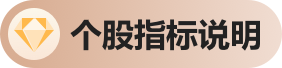
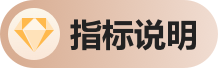
fix: 添加os字段，修改文案以及图标

diff --git a/src/components/m/module-tips3.vue b/src/components/m/module-tips3.vue
@@ -1,7 +1,7 @@
 <template>
   <div class="module-tips">
     <div class="module">
-      <header>策略原理讲解及详细介绍</header>
+      <!-- <header>策略原理讲解及详细介绍</header>
       <p>主力操盘运作流程主要有四个：建仓、洗盘、拉升、出货。但在拉主升浪之前，主力往往会拉上影线试盘，试探对手盘的抛压。如果抛压小就开启主升浪行情，也是我们买入的最好时机。</p>
       <img class="pick" :src="require('@/assets/img/pick1@2x.png')" />
       <p class="em">建仓特征</p>
@@ -13,12 +13,12 @@
       <p class="color-333 block">Level2功能可以分析主力动机。如果是早上快速封板，封板后无成交量，L2功能显示大额资金流入，并且因为行情大跌导致被动开板，这种情况可以考虑当天介入。如果当日回调幅度很大，涨幅跌到3%以下可以考虑当天介入。如果当日收盘涨幅仍然很高，可以考虑只建底仓，或者次日、隔日缩量回踩才介入。</p>
 
       <p class="em">基本面</p>
-      <p class="color-333 block">结合公司的市值、PE、股东数近期增减、增长预期等综合分析，估值过高就要考虑安全边际，股东数增减代表近期主力动作。总之分仓操作才是安全的交易方式。</p>
+      <p class="color-333 block">结合公司的市值、PE、股东数近期增减、增长预期等综合分析，估值过高就要考虑安全边际，股东数增减代表近期主力动作。总之分仓操作才是安全的交易方式。</p> -->
       <img class="pick" :src="require('@/assets/img/pick2@2x.png')" />
 
       <p><span>选出时间：</span><span class="color-666">系统策略实时选出标的精准时间。</span></p>
-      <p><span>最高收益：</span><span class="color-666">标的选出后，曾经最高的涨幅。</span></p>
-      <p><span>实时收益：</span><span class="color-666">标的选出后，最新股价的涨幅。</span></p>
+      <p><span>最高涨幅：</span><span class="color-666">标的选出后，曾经最高的涨幅。</span></p>
+      <p><span>实时涨幅：</span><span class="color-666">标的选出后，最新股价的涨幅。</span></p>
       <p><span>流通市值：</span><span class="color-666">流通市值小的标的一定不要大额交易。</span></p>
       <p><span>昨日交易：</span><span class="color-666">昨日的交易金额，可根据金额判断资金容量。</span></p>
     </div>

diff --git a/src/components/m/module-tips2.vue b/src/components/m/module-tips2.vue
@@ -1,7 +1,7 @@
 <template>
   <div class="module-tips">
     <div class="module">
-      <header>策略原理讲解及详细介绍</header>
+      <!-- <header>策略原理讲解及详细介绍</header>
       <p>通常情况下，资金拉升标的不会连续，基本上是拉升一两天，回调几天后再拉升！这样温和调整可以节省拉升所需资金，逐步抬高参与者持股成本，清洗浮筹。策略算法计算资金回调机会。</p>
       <img class="pick" :src="require('@/assets/img/pick1@2x.png')" />
       <p class="em">热点板块</p>
@@ -13,12 +13,12 @@
       <p class="color-333 block">曾经被市场炒作过标的往往众所周知，所以一旦该标的重启，就会很快被市场关注。大单金额越大单净量越大，资金关注度越高。</p>
 
       <p class="em">基本面</p>
-      <p class="color-333 block">结合公司的市值、PE、股东数近期增减、增长预期等综合分析，市值和交易额太小则基本面较差，估值过高就要考虑安全边际，股东数增减代表近期主力动作。</p>
+      <p class="color-333 block">结合公司的市值、PE、股东数近期增减、增长预期等综合分析，市值和交易额太小则基本面较差，估值过高就要考虑安全边际，股东数增减代表近期主力动作。</p> -->
       <img class="pick" :src="require('@/assets/img/pick2@2x.png')" />
 
       <p><span>选出时间：</span><span class="color-666">系统策略实时选出标的精准时间。</span></p>
-      <p><span>最高收益：</span><span class="color-666">标的选出后，曾经最高的涨幅。</span></p>
-      <p><span>实时收益：</span><span class="color-666">标的选出后，最新股价的涨幅。</span></p>
+      <p><span>最高涨幅：</span><span class="color-666">标的选出后，曾经最高的涨幅。</span></p>
+      <p><span>实时涨幅：</span><span class="color-666">标的选出后，最新股价的涨幅。</span></p>
       <p><span>流通市值：</span><span class="color-666">流通市值小的标的一定不要大额交易。</span></p>
       <p><span>昨日交易：</span><span class="color-666">昨日的交易金额，可根据金额判断资金容量。</span></p>
     </div>

diff --git a/src/components/m/module-tips1.vue b/src/components/m/module-tips1.vue
@@ -1,7 +1,7 @@
 <template>
   <div class="module-tips">
     <div class="module">
-      <header>策略原理讲解及详细介绍</header>
+      <!-- <header>策略原理讲解及详细介绍</header>
       <p>一只标的不会无缘无故拉升，底部启动往往酝酿一波主升浪行情。但一味地冒进很容易适得其反！如果在缩量回调的时候低吸介入，可做到进可攻退可守。</p>
       <img class="pick" :src="require('@/assets/img/pick1@2x.png')" />
       <p class="em">热点板块</p>
@@ -13,12 +13,12 @@
       <p class="color-333 block">主要计算大单金额和大单净量数据，大单净量代表大单金额占流通市值的百分比，强势涨停当天大单净量越大代表主力越坚决，控盘度越高。</p>
 
       <p class="em">基本面</p>
-      <p class="color-333 block">结合公司的市值、PE、股东数近期增减、增长预期等综合分析，市值和交易额太小则基本面较差，估值过高就要考虑安全边际，股东数增减代表近期主力动作。</p>
+      <p class="color-333 block">结合公司的市值、PE、股东数近期增减、增长预期等综合分析，市值和交易额太小则基本面较差，估值过高就要考虑安全边际，股东数增减代表近期主力动作。</p> -->
       <img class="pick" :src="require('@/assets/img/pick2@2x.png')" />
 
       <p><span>选出时间：</span><span class="color-666">系统策略实时选出标的精准时间。</span></p>
-      <p><span>最高收益：</span><span class="color-666">标的选出后，曾经最高的涨幅。</span></p>
-      <p><span>实时收益：</span><span class="color-666">标的选出后，最新股价的涨幅。</span></p>
+      <p><span>最高涨幅：</span><span class="color-666">标的选出后，曾经最高的涨幅。</span></p>
+      <p><span>实时涨幅：</span><span class="color-666">标的选出后，最新股价的涨幅。</span></p>
       <p><span>流通市值：</span><span class="color-666">流通市值小的标的一定不要大额交易。</span></p>
       <p><span>昨日交易：</span><span class="color-666">昨日的交易金额，可根据金额判断资金容量。</span></p>
     </div>

diff --git a/src/components/m/module-tips4.vue b/src/components/m/module-tips4.vue
@@ -1,7 +1,7 @@
 <template>
   <div class="module-tips">
     <div class="module">
-      <header>策略原理讲解及详细介绍</header>
+      <!-- <header>策略原理讲解及详细介绍</header>
       <p>在市场恐慌情绪泛滥的情况下，众多交易者会不计成本割掉手中的筹码，如果此时主力空翻多大单接盘，就是一种情绪反转的征兆。后续市场冷静后，该标的往往会提前表现，走出一波行情。</p>
       <img class="pick" :src="require('@/assets/img/pick1@2x.png')" />
       <p class="em">大跌后反转</p>
@@ -13,12 +13,12 @@
       <p class="color-333 block">标的股价活性强的，最好是白马蓝筹股。屏蔽小盘股可以规避主力通过对倒制造大资金流入的假象。</p>
 
       <p class="em">基本面</p>
-      <p class="color-333 block">结合公司的市值、PE、股东数近期增减、增长预期等综合分析，市值和交易额太小则基本面较差，估值过高就要考虑安全边际，股东数增减代表近期主力动作。</p>
+      <p class="color-333 block">结合公司的市值、PE、股东数近期增减、增长预期等综合分析，市值和交易额太小则基本面较差，估值过高就要考虑安全边际，股东数增减代表近期主力动作。</p> -->
       <img class="pick" :src="require('@/assets/img/pick2@2x.png')" />
 
       <p><span>选出时间：</span><span class="color-666">系统策略实时选出标的精准时间。</span></p>
-      <p><span>最高收益：</span><span class="color-666">标的选出后，曾经最高的涨幅。</span></p>
-      <p><span>实时收益：</span><span class="color-666">标的选出后，最新股价的涨幅。</span></p>
+      <p><span>最高涨幅：</span><span class="color-666">标的选出后，曾经最高的涨幅。</span></p>
+      <p><span>实时涨幅：</span><span class="color-666">标的选出后，最新股价的涨幅。</span></p>
       <p><span>流通市值：</span><span class="color-666">流通市值小的标的一定不要大额交易。</span></p>
       <p><span>昨日交易：</span><span class="color-666">昨日的交易金额，可根据金额判断资金容量。</span></p>
     </div>

diff --git a/src/components/module-tips4.vue b/src/components/module-tips4.vue
@@ -1,7 +1,7 @@
 <template>
   <div class="module-tips">
     <div class="module">
-      <header>策略原理讲解及详细介绍</header>
+      <!-- <header>策略原理讲解及详细介绍</header>
       <p>在市场恐慌情绪泛滥的情况下，众多交易者会不计成本割掉手中的筹码，如果此时主力空翻多大单接盘，就是一种情绪反转的征兆。后续市场冷静后，该标的往往会提前表现，走出一波行情。</p>
       <img class="pick" :src="require('@/assets/img/web/pick1@2x.png')" />
       <div class="attrs">
@@ -21,13 +21,13 @@
           <p class="em">基本面</p>
           <p class="color-333 block">结合公司的市值、PE、股东数近期增减、增长预期等综合分析，市值和交易额太小则基本面较差，估值过高就要考虑安全边际，股东数增减代表近期主力动作。</p>
         </div>
-      </div>
+      </div> -->
 
       <img class="pick" :src="require('@/assets/img/web/pick2@2x.png')" />
       <div class="add-attrs">
         <p><span>选出时间：</span><span class="color-666">系统策略实时选出标的精准时间。</span></p>
-        <p><span>最高收益：</span><span class="color-666">标的选出后，曾经最高的涨幅。</span></p>
-        <p><span>实时收益：</span><span class="color-666">标的选出后，最新股价的涨幅。</span></p>
+        <p><span>最高涨幅：</span><span class="color-666">标的选出后，曾经最高的涨幅。</span></p>
+        <p><span>实时涨幅：</span><span class="color-666">标的选出后，最新股价的涨幅。</span></p>
         <p><span>流通市值：</span><span class="color-666">流通市值小的标的一定不要大额交易。</span></p>
         <p><span>昨日交易：</span><span class="color-666">昨日的交易金额，可根据金额判断资金容量。</span></p>
       </div>

diff --git a/src/components/module-tips2.vue b/src/components/module-tips2.vue
@@ -1,7 +1,7 @@
 <template>
   <div class="module-tips">
     <div class="module">
-      <header>策略原理讲解及详细介绍</header>
+      <!-- <header>策略原理讲解及详细介绍</header>
       <p>通常情况下，资金拉升标的不会连续，基本上是拉升一两天，回调几天后再拉升！这样温和调整可以节省拉升所需资金，逐步抬高参与者持股成本，清洗浮筹。策略算法计算资金回调机会。</p>
       <img class="pick" :src="require('@/assets/img/web/pick1@2x.png')" />
       <div class="attrs">
@@ -21,13 +21,13 @@
           <p class="em">基本面</p>
           <p class="color-333 block">结合公司的市值、PE、股东数近期增减、增长预期等综合分析，市值和交易额太小则基本面较差，估值过高就要考虑安全边际，股东数增减代表近期主力动作。</p>
         </div>
-      </div>
+      </div> -->
 
       <img class="pick" :src="require('@/assets/img/web/pick2@2x.png')" />
       <div class="add-attrs">
         <p><span>选出时间：</span><span class="color-666">系统策略实时选出标的精准时间。</span></p>
-        <p><span>最高收益：</span><span class="color-666">标的选出后，曾经最高的涨幅。</span></p>
-        <p><span>实时收益：</span><span class="color-666">标的选出后，最新股价的涨幅。</span></p>
+        <p><span>最高涨幅：</span><span class="color-666">标的选出后，曾经最高的涨幅。</span></p>
+        <p><span>实时涨幅：</span><span class="color-666">标的选出后，最新股价的涨幅。</span></p>
         <p><span>流通市值：</span><span class="color-666">流通市值小的标的一定不要大额交易。</span></p>
         <p><span>昨日交易：</span><span class="color-666">昨日的交易金额，可根据金额判断资金容量。</span></p>
       </div>

diff --git a/src/components/module-tips3.vue b/src/components/module-tips3.vue
@@ -1,7 +1,7 @@
 <template>
   <div class="module-tips">
     <div class="module">
-      <header>策略原理讲解及详细介绍</header>
+      <!-- <header>策略原理讲解及详细介绍</header>
       <p>主力操盘运作流程主要有四个：建仓、洗盘、拉升、出货。但在拉主升浪之前，主力往往会拉上影线试盘，试探对手盘的抛压。如果抛压小就开启主升浪行情，也是我们买入的最好时机。</p>
       <img class="pick" :src="require('@/assets/img/web/pick1@2x.png')" />
       <div class="attrs">
@@ -21,13 +21,13 @@
           <p class="em">基本面</p>
           <p class="color-333 block">结合公司的市值、PE、股东数近期增减、增长预期等综合分析，估值过高就要考虑安全边际，股东数增减代表近期主力动作。总之分仓操作才是安全的交易方式。</p>
         </div>
-      </div>
+      </div> -->
 
       <img class="pick" :src="require('@/assets/img/web/pick2@2x.png')" />
       <div class="add-attrs">
         <p><span>选出时间：</span><span class="color-666">系统策略实时选出标的精准时间。</span></p>
-        <p><span>最高收益：</span><span class="color-666">标的选出后，曾经最高的涨幅。</span></p>
-        <p><span>实时收益：</span><span class="color-666">标的选出后，最新股价的涨幅。</span></p>
+        <p><span>最高涨幅：</span><span class="color-666">标的选出后，曾经最高的涨幅。</span></p>
+        <p><span>实时涨幅：</span><span class="color-666">标的选出后，最新股价的涨幅。</span></p>
         <p><span>流通市值：</span><span class="color-666">流通市值小的标的一定不要大额交易。</span></p>
         <p><span>昨日交易：</span><span class="color-666">昨日的交易金额，可根据金额判断资金容量。</span></p>
       </div>

diff --git a/src/components/module-tips1.vue b/src/components/module-tips1.vue
@@ -1,7 +1,7 @@
 <template>
   <div class="module-tips">
     <div class="module">
-      <header>策略原理讲解及详细介绍</header>
+      <!-- <header>策略原理讲解及详细介绍</header>
       <p>一只标的不会无缘无故拉升，底部启动往往酝酿一波主升浪行情。但一味地冒进很容易适得其反！如果在缩量回调的时候低吸介入，可做到进可攻退可守。</p>
       <img class="pick" :src="require('@/assets/img/web/pick1@2x.png')" />
       <div class="attrs">
@@ -21,13 +21,13 @@
           <p class="em">基本面</p>
           <p class="color-333 block">结合公司的市值、PE、股东数近期增减、增长预期等综合分析，市值和交易额太小则基本面较差，估值过高就要考虑安全边际，股东数增减代表近期主力动作。</p>
         </div>
-      </div>
+      </div> -->
 
       <img class="pick" :src="require('@/assets/img/web/pick2@2x.png')" />
       <div class="add-attrs">
         <p><span>选出时间：</span><span class="color-666">系统策略实时选出标的精准时间。</span></p>
-        <p><span>最高收益：</span><span class="color-666">标的选出后，曾经最高的涨幅。</span></p>
-        <p><span>实时收益：</span><span class="color-666">标的选出后，最新股价的涨幅。</span></p>
+        <p><span>最高涨幅：</span><span class="color-666">标的选出后，曾经最高的涨幅。</span></p>
+        <p><span>实时涨幅：</span><span class="color-666">标的选出后，最新股价的涨幅。</span></p>
         <p><span>流通市值：</span><span class="color-666">流通市值小的标的一定不要大额交易。</span></p>
         <p><span>昨日交易：</span><span class="color-666">昨日的交易金额，可根据金额判断资金容量。</span></p>
       </div>

diff --git a/src/utils/request.js b/src/utils/request.js
@@ -25,7 +25,7 @@ service.interceptors.request.use(
     } else {
       url += '?';
     }
-    url += `appType=${params.wy == 1 ? 'clswy' : 'clsmain'}&token=${token}&strategyType=${params.type || ''}&productId=${params.proId || ''}`;
+    url += `os=${params.os}&appType=${params.wy == 1 ? 'clswy' : 'clsmain'}&token=${token}&strategyType=${params.type || ''}&productId=${params.proId || ''}`;
     config.url = url;
     if (store.getters.token) {
       config.headers['authorization'] = store.getters.token;
